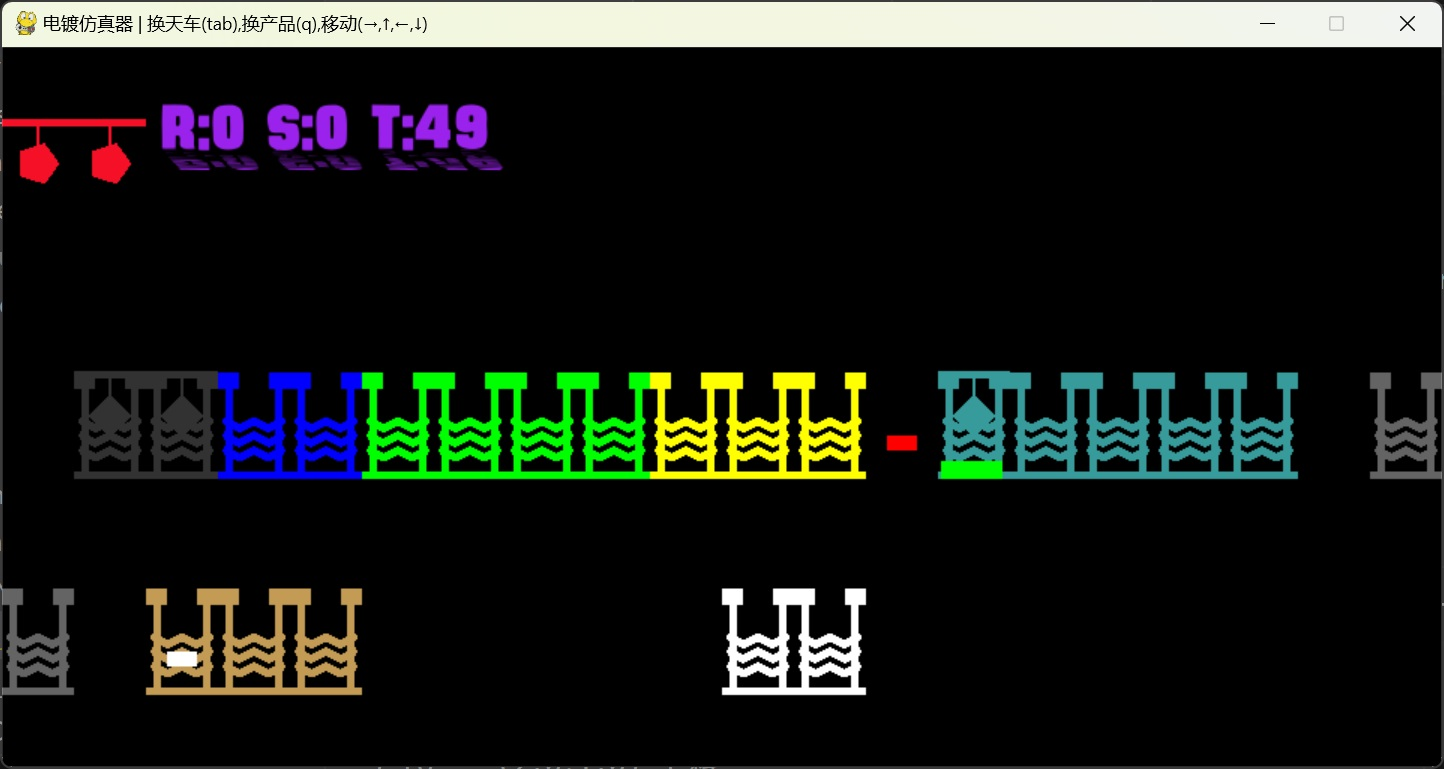
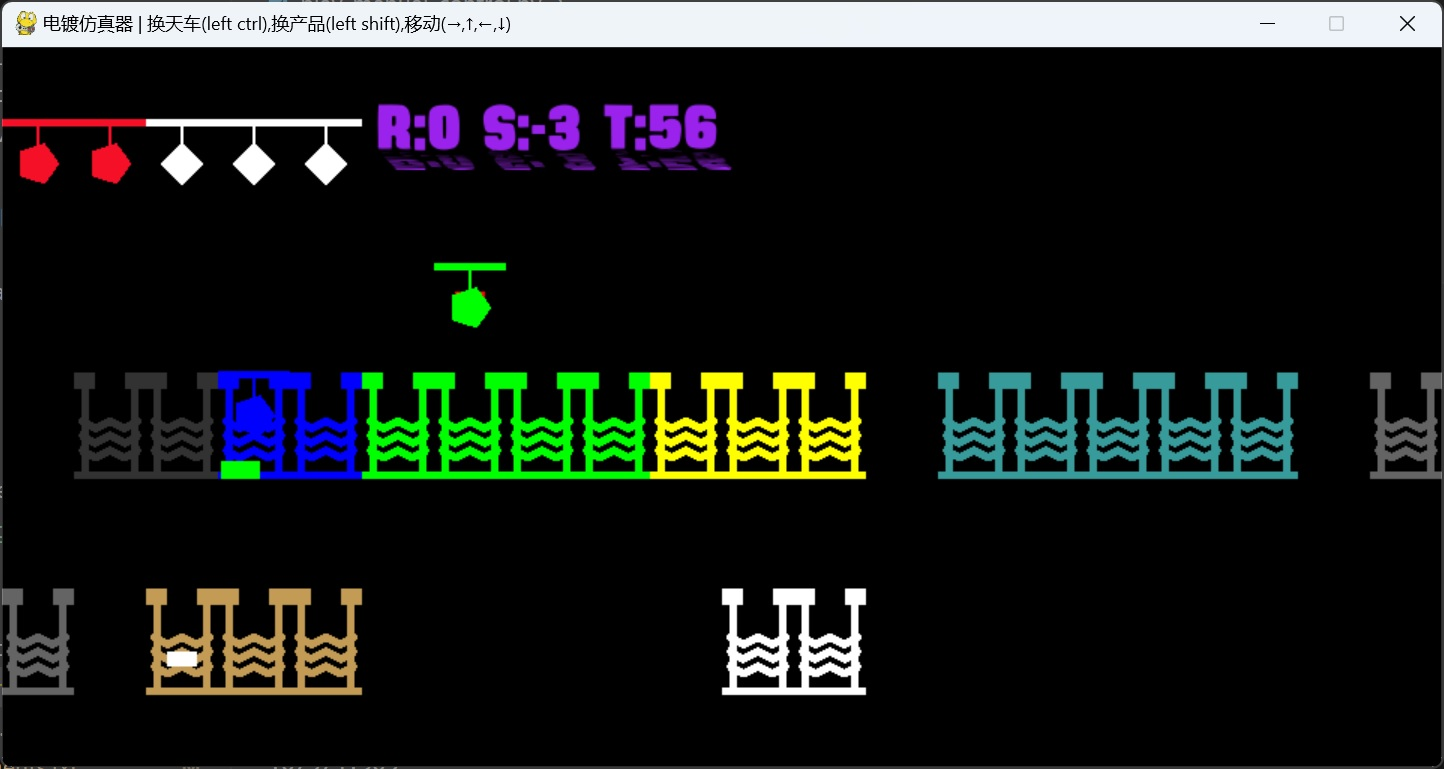
fix bug

diff --git a/epsim/envs/electroplating/manual_policy.py b/epsim/envs/electroplating/manual_policy.py
@@ -21,7 +21,13 @@ class ManualControl:
             for event in pygame.event.get():
                 if event.type == pygame.QUIT:
                     self.running = False
+                elif event.type==pygame.K_q:
+                        self.running = False
+                        break
                 elif event.type == pygame.KEYDOWN:
+                    
+
+                    #print(event.key)
                     key=pygame.key.name(event.key)
                     self.key_handler(key)
                     self.env.render()
@@ -57,10 +63,10 @@ class ManualControl:
         if key == "backspace":
             self.reset()
             return
-        if key == "q":
+        if key == "left shift":
             self.env.world.shift_product()
             return
-        if key == "tab":
+        if key == "left ctrl":
             #print('next_crane')
             self.env.world.next_crane()
             return

diff --git a/epsim/core/constants.py b/epsim/core/constants.py
@@ -29,8 +29,8 @@ class SHARE:
 
 
 WINDOW_TITLE={
-    'chinese':'电镀仿真器 | 换天车(tab),换产品(q),移动(→,↑,←,↓)',
-    'english':'Electroplating simulator | Change the overhead crane (tab), change the product (q), move (→,↑,←,↓)', 
+    'chinese':'电镀仿真器 | 换天车(left ctrl),换产品(left shift),移动(→,↑,←,↓)',
+    'english':'Electroplating simulator | Change the overhead crane (left ctrl), change the product (left shift), move (→,↑,←,↓)', 
 }
 
 class ObjType(IntEnum): 

diff --git a/help.md b/help.md
@@ -1,0 +1,22 @@
+# 如何生成requirements.txt
+
+## 安装工具
+```
+pip install pipreqs
+```
+## 在当前目录生成
+```
+pipreqs . --encoding=utf8 --force
+```
+
+# git如何创建标签
+
+## crate tag
+```
+git tag V1.0
+```
+
+## push to remote
+```
+git push origin --tags
+```

diff --git a/README.md b/README.md
@@ -2,9 +2,9 @@
 ![自动上料演示](./images/demo-auto.jpg)
 
 ## 安装
-
+Python 3.9+.
 ``` python
-pip install -r requirements
+pip install -r requirements.txt
 ```
 ## 配置
 
